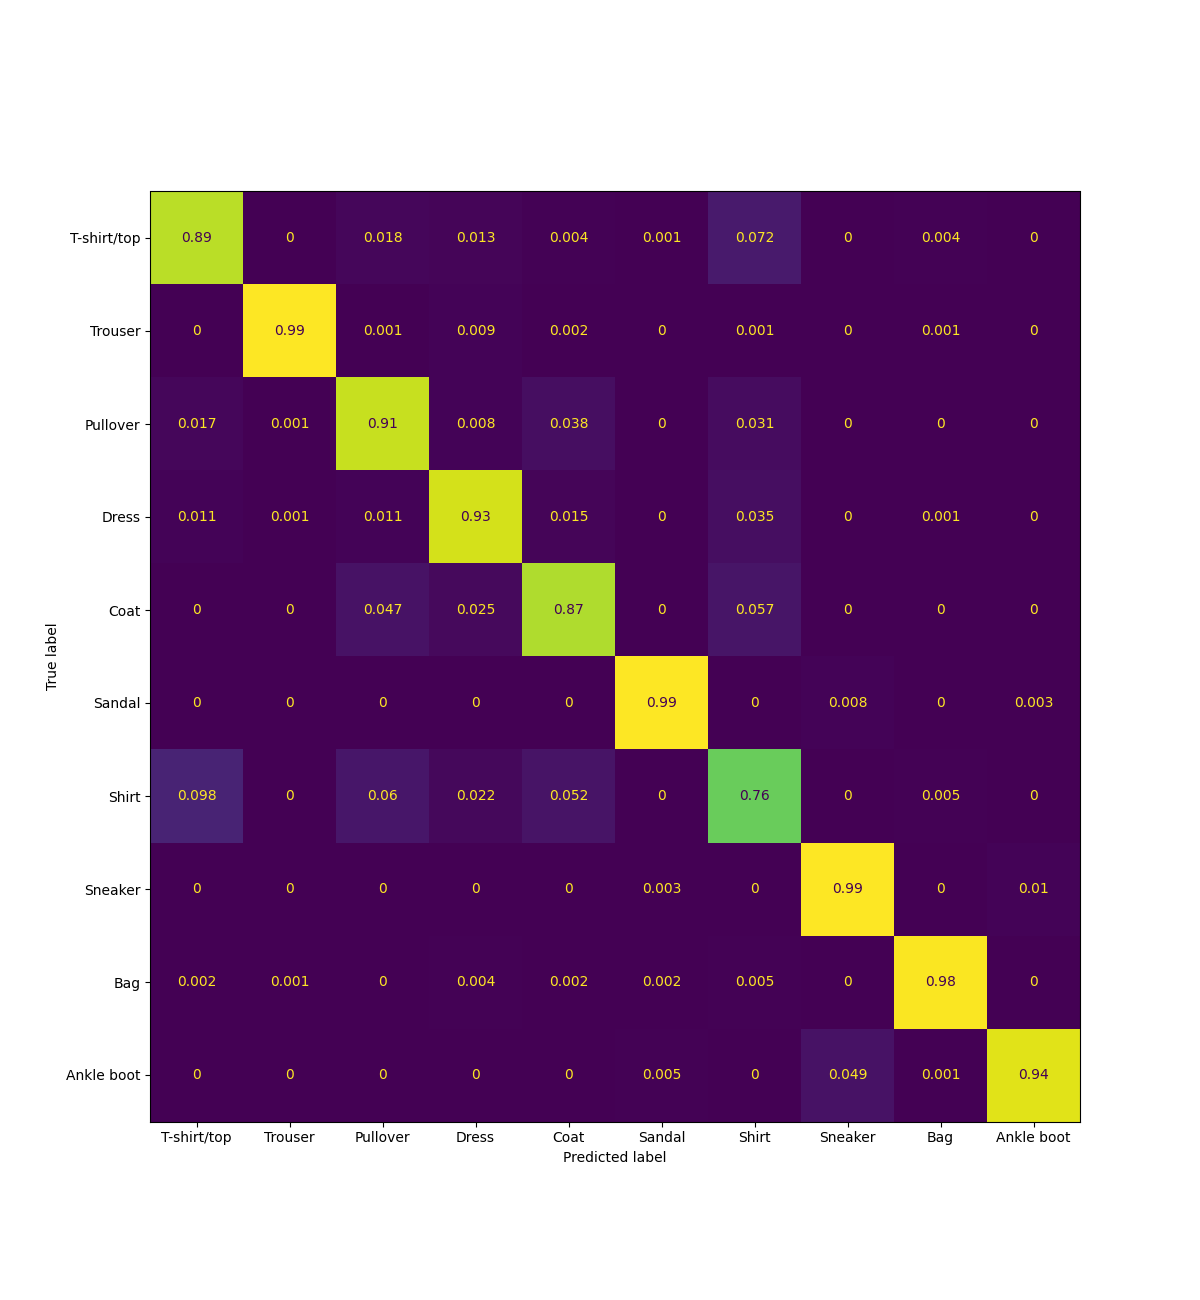
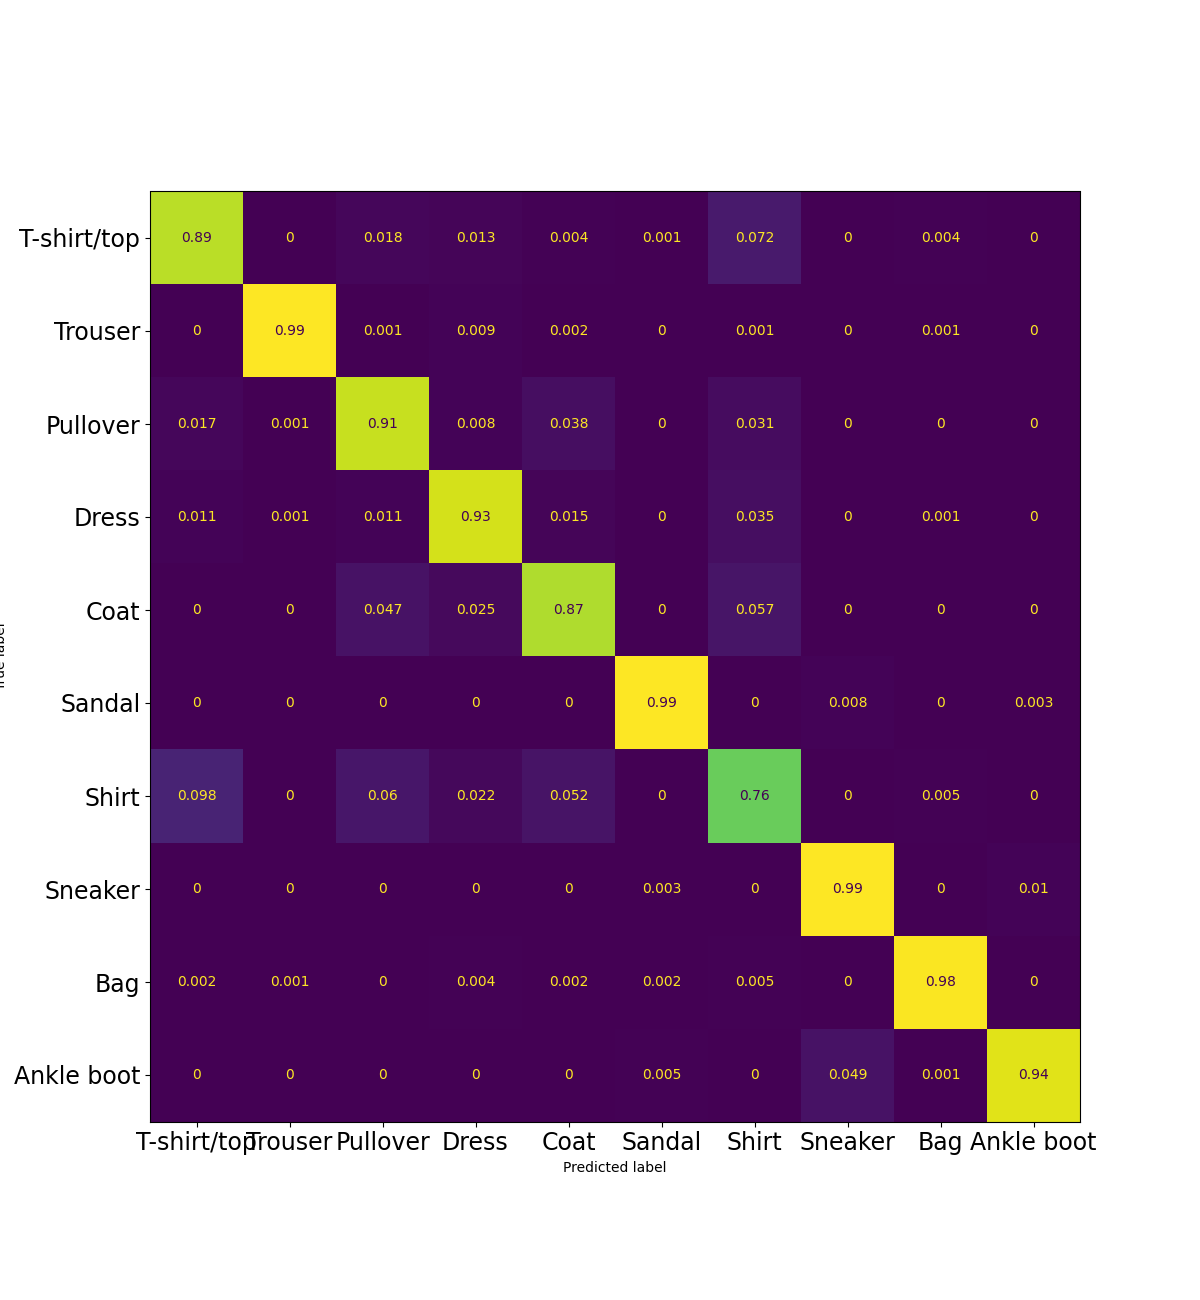
fin

diff --git a/graficos.py b/graficos.py
@@ -12,10 +12,10 @@ def save_plot(conf,train_loss_in,train_loss,valid_loss, name):
     plt.plot(train_loss, label='train_loss', linestyle='--')
     plt.plot(valid_loss, label='valid_loss', linestyle='-.')
     plt.grid()
-    plt.title(name)
+    #plt.title(name)
     plt.legend()
-    plt.xlabel('Epoch')
-    plt.ylabel('Loss')
+    plt.xlabel('Epoch', fontsize=15)
+    plt.ylabel('Loss', fontsize=15)
     plt.savefig(f'./results/{name}.png')
     plt.close()
 

diff --git a/results/results.md b/results/results.md
@@ -86,25 +86,3 @@ Pérdida de entrenamiento: 0.005741913962798814
 
 Pérdida de validación: 0.005772777325473726
 
-# Configuración 5
-
-```json
-{
-    "id": 5,
-    "learning_rate": 0.001,
-    "dropout": 0.5,
-    "l_size": 512,
-    "batch_size": 100,
-    "epochs": 60,
-    "lineal": true
-}
-```
-
-![](./configuracion%205.png)
-
-Pérdida de entrenamiento incorrecto: 0.017942342253712315
-
-Pérdida de entrenamiento: 0.012111853870252768
-
-Pérdida de validación: 0.012368184998631477
-
